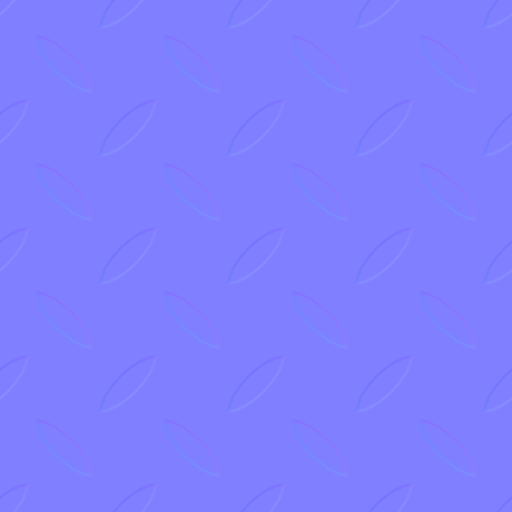
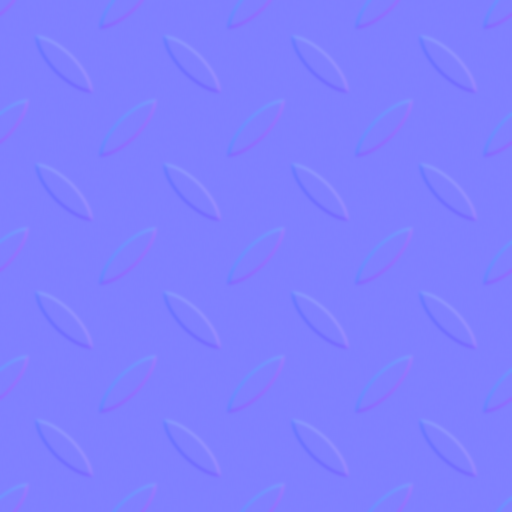
feat: add modular trailer model component with triplanar material support and texture assets

diff --git a/src/utils/TriplanarMaterial.js b/src/utils/TriplanarMaterial.js
@@ -47,8 +47,8 @@ export function patchTriplanarMaterial(material, scale = 1.0, swapYAxes = false)
         shader.vertexShader = shader.vertexShader.replace(
             '#include <common>',
             `#include <common>
-varying vec3 vWorldPos;
-varying vec3 vWorldNormal;`
+varying highp vec3 vWorldPos;
+varying highp vec3 vWorldNormal;`
         )
 
         shader.vertexShader = shader.vertexShader.replace(
@@ -67,20 +67,20 @@ vWorldPos = (modelMatrix * vec4(transformed, 1.0)).xyz;`
         shader.fragmentShader = shader.fragmentShader.replace(
             '#include <common>',
             `#include <common>
-varying vec3 vWorldPos;
-varying vec3 vWorldNormal;
+varying highp vec3 vWorldPos;
+varying highp vec3 vWorldNormal;
 uniform vec2 uScaleX;
 uniform vec2 uScaleY;
 uniform vec2 uScaleZ;
 
 vec2 getTriplanarUvX(vec3 pos, vec3 normal) {
-  return vec2(pos.z * -sign(normal.x), -pos.y);
+  return vec2(pos.z * -(normal.x >= 0.0 ? 1.0 : -1.0), -pos.y);
 }
 vec2 getTriplanarUvY(vec3 pos, vec3 normal) {
-  ${swapYAxes ? 'return vec2(pos.z * sign(normal.y), pos.x * sign(normal.y));' : 'return vec2(pos.x * sign(normal.y), pos.z * sign(normal.y));'}
+  ${swapYAxes ? 'return vec2(pos.z * (normal.y >= 0.0 ? 1.0 : -1.0), pos.x * (normal.y >= 0.0 ? 1.0 : -1.0));' : 'return vec2(pos.x * (normal.y >= 0.0 ? 1.0 : -1.0), pos.z * (normal.y >= 0.0 ? 1.0 : -1.0));'}
 }
 vec2 getTriplanarUvZ(vec3 pos, vec3 normal) {
-  return vec2(pos.x * sign(normal.z), -pos.y);
+  return vec2(pos.x * (normal.z >= 0.0 ? 1.0 : -1.0), -pos.y);
 }`
         )
 
@@ -173,9 +173,13 @@ vec2 getTriplanarUvZ(vec3 pos, vec3 normal) {
   _ts_y.xy *= normalScale;
   _ts_z.xy *= normalScale;
 
-  vec3 _wn_x = normalize(vec3(_ts_x.b * sign(vWorldNormal.x), _ts_x.g, _ts_x.r));
-  vec3 _wn_y = normalize(vec3(_ts_y.r, _ts_y.b * sign(vWorldNormal.y), -_ts_y.g));
-  vec3 _wn_z = normalize(vec3(_ts_z.r, _ts_z.g, _ts_z.b * sign(vWorldNormal.z)));
+  float snx = vWorldNormal.x >= 0.0 ? 1.0 : -1.0;
+  float sny = vWorldNormal.y >= 0.0 ? 1.0 : -1.0;
+  float snz = vWorldNormal.z >= 0.0 ? 1.0 : -1.0;
+  
+  vec3 _wn_x = normalize(vec3(_ts_x.b * snx, -_ts_x.g, -_ts_x.r * snx));
+  vec3 _wn_y = normalize(vec3(_ts_y.r * sny, _ts_y.b * sny, _ts_y.g * sny));
+  vec3 _wn_z = normalize(vec3(_ts_z.r * snz, -_ts_z.g, _ts_z.b * snz));
 
   vec3 _tp_worldN = normalize(_wn_x * _tn_blend.x + _wn_y * _tn_blend.y + _wn_z * _tn_blend.z);
   normal = normalize(mat3(viewMatrix) * _tp_worldN);

diff --git a/src/components/ModularTrailerModel.jsx b/src/components/ModularTrailerModel.jsx
@@ -576,19 +576,18 @@ export default function ModularTrailerModel({ widthFt, lengthFt, heightFt, envir
             const base = mat.clone()
             if (!isDecal) {
                 base.normalMap   = normalMap
-                base.normalScale = new THREE.Vector2(4.0, 4.0)
+                base.normalScale = new THREE.Vector2(1.0, -1.0)
                 base.metalness   = 1
                 base.roughness   = 0.1
                 
                 let finalMat = base;
-                // Only apply triplanar if it's NOT the uvscale material
                 if (!isUvScale) {
-                    finalMat = patchTriplanarMaterial(base, 10)
+                    finalMat = patchTriplanarMaterial(base, 10);
                 } else {
-                    const scaledNormal = normalMap.clone()
-                    scaledNormal.repeat.set(280, 280)
-                    scaledNormal.needsUpdate = true
-                    finalMat.normalMap = scaledNormal
+                    const scaledNormal = normalMap.clone();
+                    scaledNormal.repeat.set(280, 280);
+                    scaledNormal.needsUpdate = true;
+                    finalMat.normalMap = scaledNormal;
                 }
                 
                 finalMat.needsUpdate = true
@@ -670,10 +669,11 @@ export default function ModularTrailerModel({ widthFt, lengthFt, heightFt, envir
                                     }
 
                                     if (!isDecal) {
+                                        newMat.normalScale = new THREE.Vector2(1.0, -1.0);
+                                        const scaleFactor = isUvScale ? (normalized === 'matatpuvscale' ? 2 : 280) : 10;
                                         if (!isUvScale) {
                                             newMat = patchTriplanarMaterial(newMat, 10);
                                         } else {
-                                            const scaleFactor = normalized === 'matatpuvscale' ? 2 : 280;
                                             if (newMat.map) {
                                                 const scaledMap = newMat.map.clone();
                                                 scaledMap.repeat.set(scaleFactor, scaleFactor);
